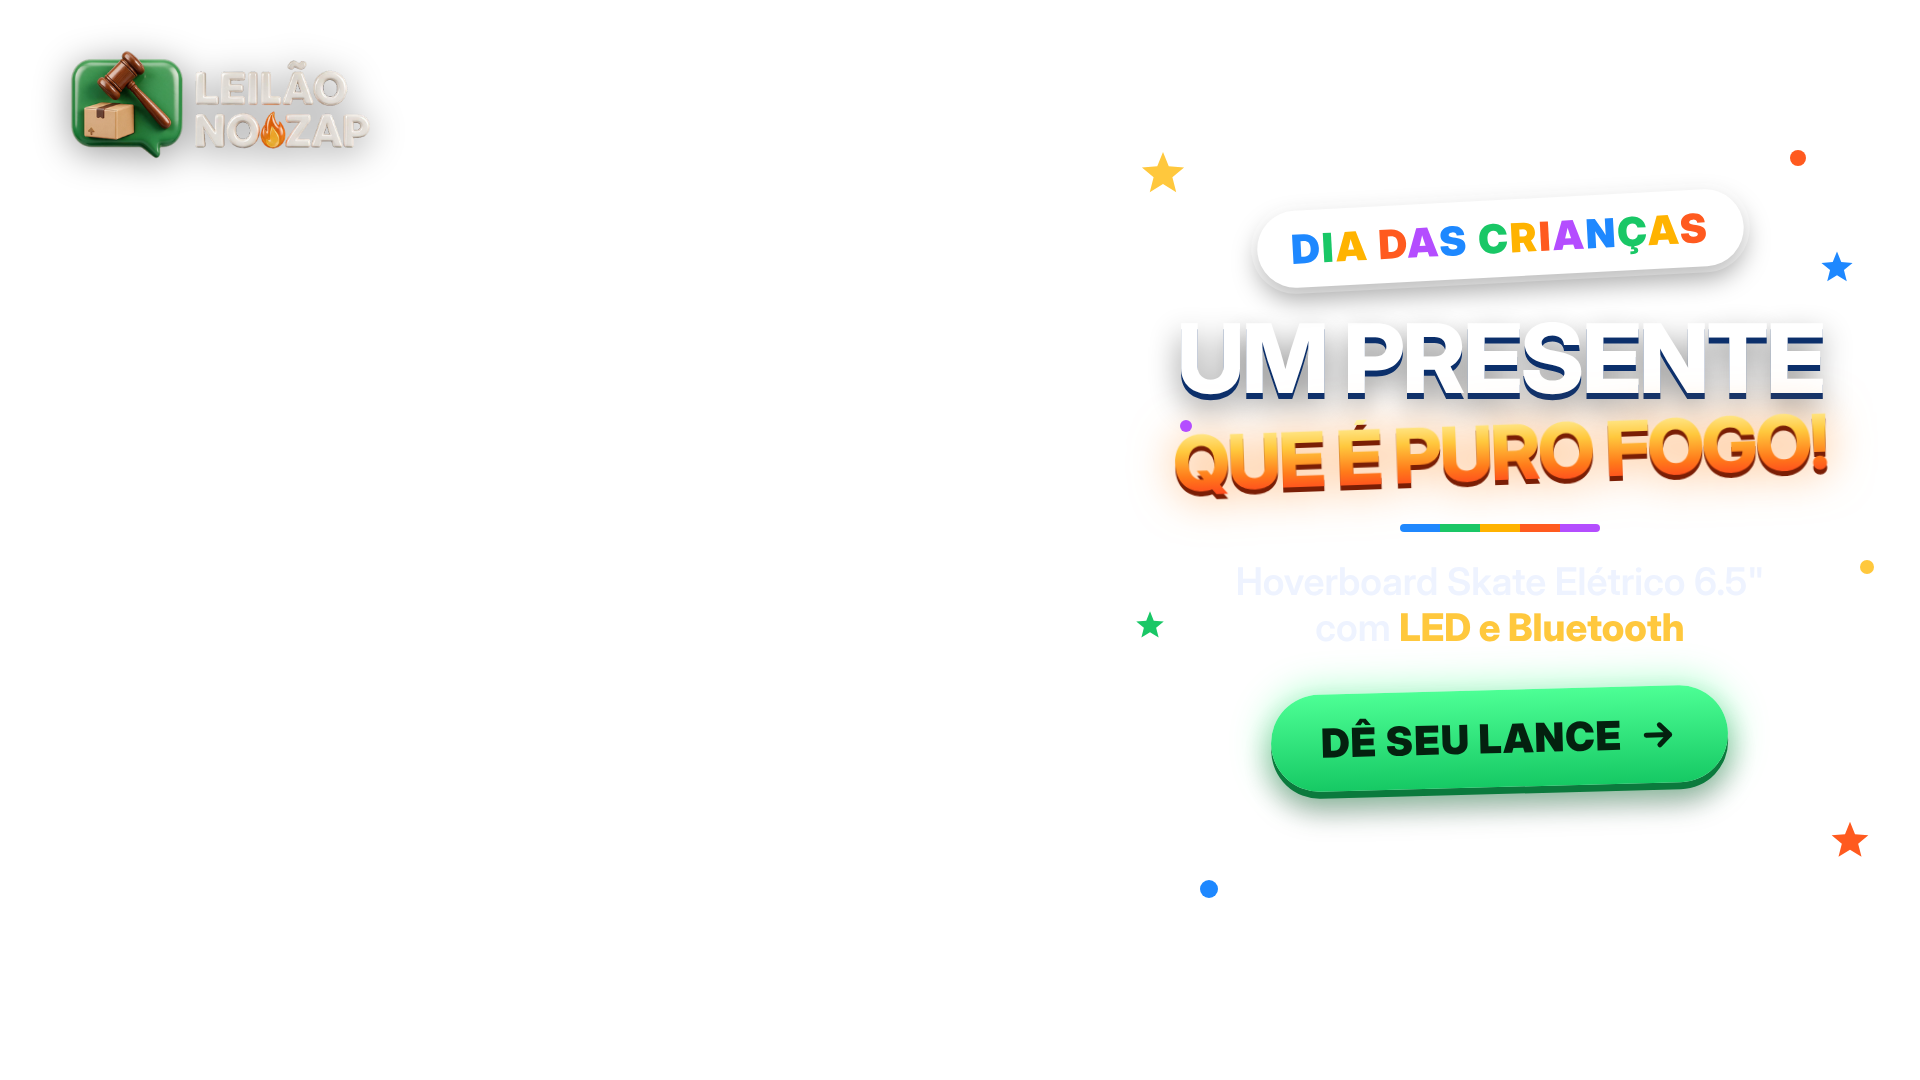
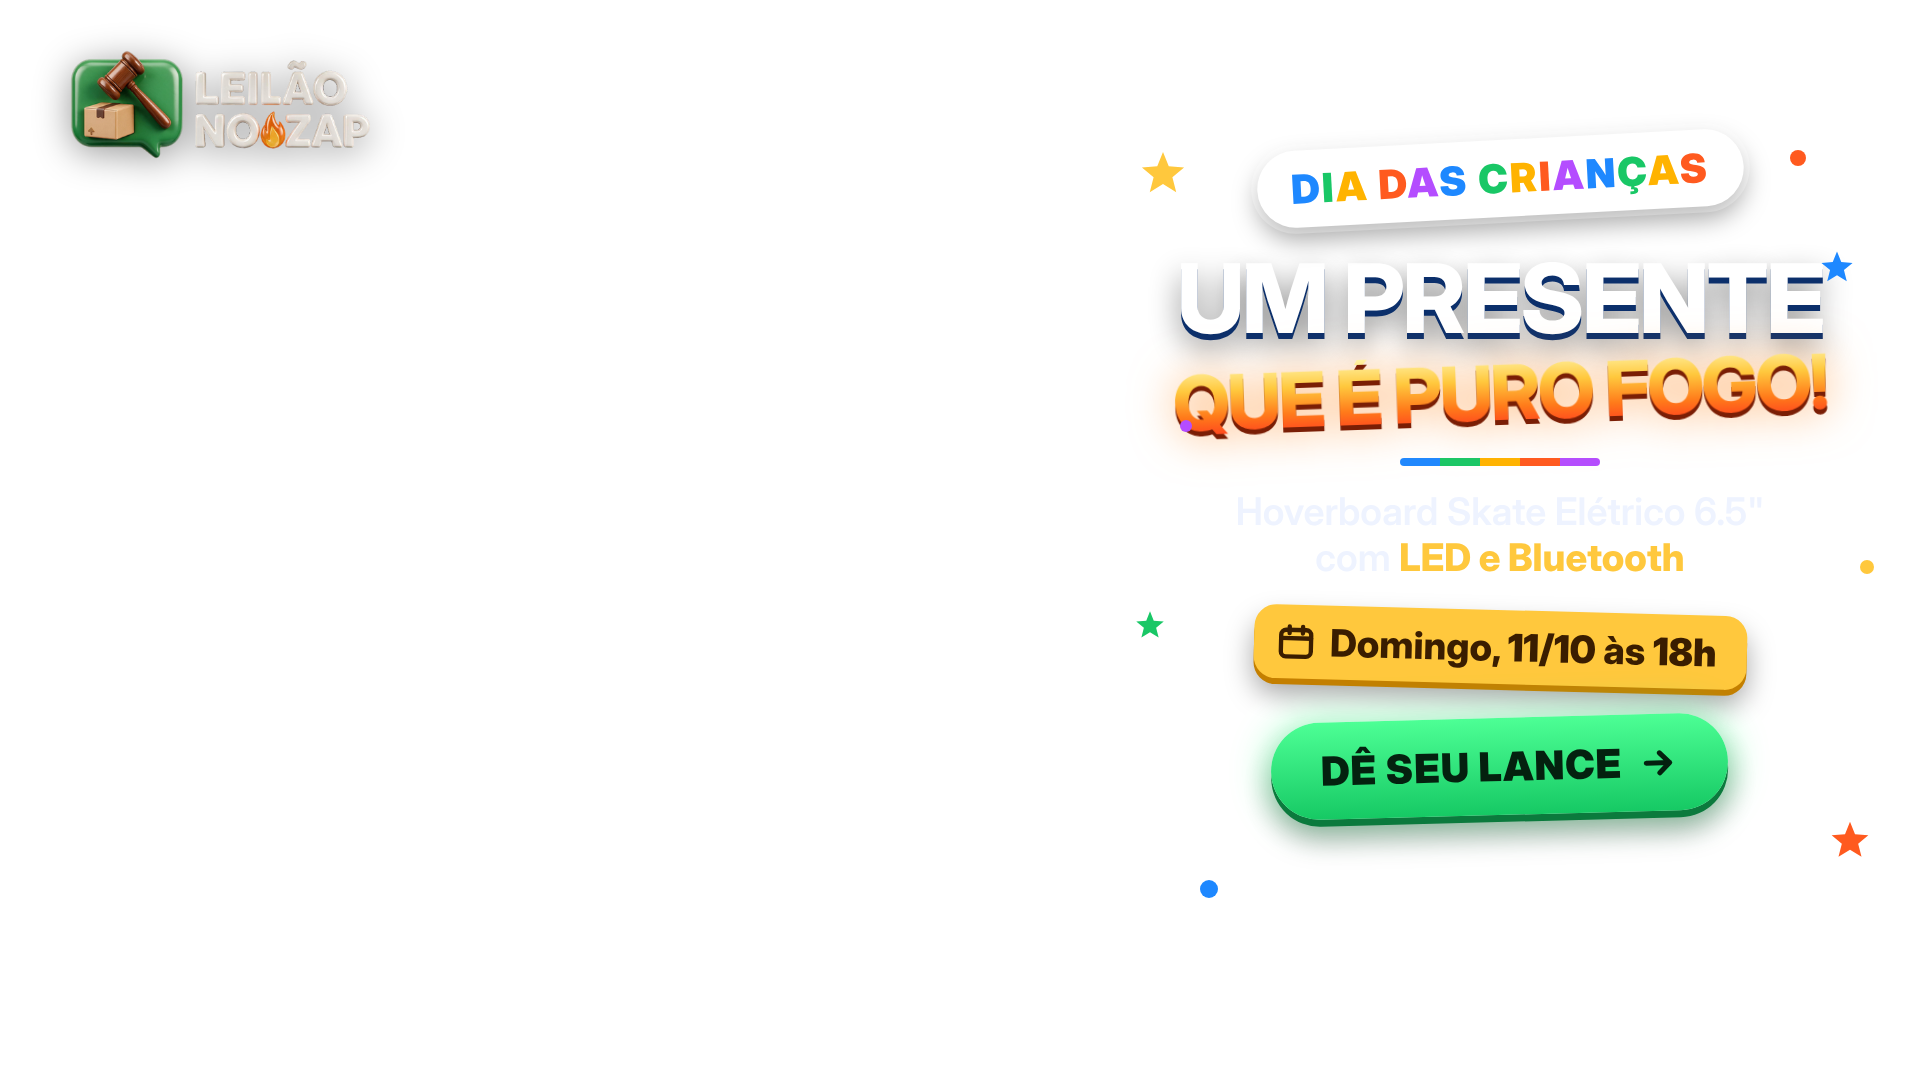
Dia das Crianças: data 'Domingo, 11/10 às 18h' na camada de texto
Claude-Session: https://claude.ai/code/session_01JihU9VfVTYTrMqQpApFEjH

Changed region(s): [[0.5938, 0.1222, 0.9688, 0.7944]]

diff --git a/marketing/banners/dia-das-criancas/texto.html b/marketing/banners/dia-das-criancas/texto.html
@@ -6,7 +6,7 @@
   body.preview{background:radial-gradient(ellipse at 30% 50%,#0f3a5e,#060f22 70%)}
   .stage{position:relative;width:1920px;height:1080px;font-family:"Inter Display","Inter",sans-serif}
   .logo{position:absolute;left:70px;top:50px;width:300px;filter:drop-shadow(0 6px 18px rgba(0,0,0,.4))}
-  .txt{position:absolute;left:1130px;top:200px;width:740px;text-align:center}
+  .txt{position:absolute;left:1130px;top:140px;width:740px;text-align:center}
   /* selo com letras coloridas */
   .selo{display:inline-block;padding:14px 34px;border-radius:999px;background:#fff;transform:rotate(-3deg);
     box-shadow:0 0 0 6px rgba(255,255,255,.25),0 12px 26px rgba(0,0,0,.35);font-weight:900;font-size:40px;letter-spacing:.06em}
@@ -17,11 +17,16 @@
   .fogo{display:block;font-size:76px;white-space:nowrap;text-shadow:none;transform:rotate(-2deg);margin-top:10px;
     background:linear-gradient(180deg,#fff3a6 0%,#ffc83d 35%,#ff7a1a 70%,#ff3d1f 100%);-webkit-background-clip:text;background-clip:text;color:transparent;
     filter:drop-shadow(0 5px 0 #7a1e05) drop-shadow(0 0 22px rgba(255,140,40,.55))}
-  .rule{width:200px;height:8px;border-radius:4px;margin:34px auto 26px;
+  .rule{width:200px;height:8px;border-radius:4px;margin:28px auto 22px;
     background:repeating-linear-gradient(90deg,#1e88ff 0 40px,#19c766 40px 80px,#ffb300 80px 120px,#ff5a1f 120px 160px,#b44dff 160px 200px)}
   .sub{font-weight:600;font-size:38px;line-height:1.22;color:#eef3ff}
   .sub b{font-weight:800;color:#ffc83d}
-  .cta{display:inline-flex;align-items:center;gap:16px;margin-top:40px;padding:24px 50px;border-radius:999px;
+  .data{display:inline-flex;align-items:center;gap:14px;margin-top:30px;padding:14px 30px 14px 22px;border-radius:22px;
+    background:#ffc83d;color:#3a1d00;font-weight:800;font-size:38px;transform:rotate(1.5deg);
+    box-shadow:0 6px 0 #c47f00,0 16px 28px rgba(0,0,0,.35)}
+  .data b{font-weight:900}
+  .data svg{width:40px;height:40px}
+  .cta{display:inline-flex;align-items:center;gap:16px;margin-top:34px;padding:24px 50px;border-radius:999px;
     background:linear-gradient(180deg,#4dff95,#16c964);color:#04210f;font-weight:900;font-size:40px;letter-spacing:.03em;
     box-shadow:0 7px 0 #0b7a3d,0 0 34px 6px rgba(61,255,138,.4),0 18px 30px rgba(0,0,0,.4);transform:rotate(-1.5deg)}
   .cta svg{width:40px;height:40px}
@@ -36,6 +41,7 @@
     <div class="h1">UM PRESENTE<span class="fogo">QUE É PURO FOGO!</span></div>
     <div class="rule"></div>
     <div class="sub">Hoverboard Skate Elétrico 6.5"<br>com <b>LED e Bluetooth</b></div>
+    <div><div class="data"><svg viewBox="0 0 24 24" fill="none" stroke="#3a1d00" stroke-width="2.6" stroke-linecap="round" stroke-linejoin="round"><rect x="3" y="5" width="18" height="16" rx="3"/><path d="M3 10h18M8 3v4M16 3v4"/></svg><span>Domingo, <b>11/10</b> às <b>18h</b></span></div></div>
     <div class="cta">DÊ SEU LANCE
       <svg viewBox="0 0 24 24" fill="none" stroke="#04210f" stroke-width="3" stroke-linecap="round" stroke-linejoin="round"><path d="M5 12h14M13 6l6 6-6 6"/></svg></div>
   </div>
